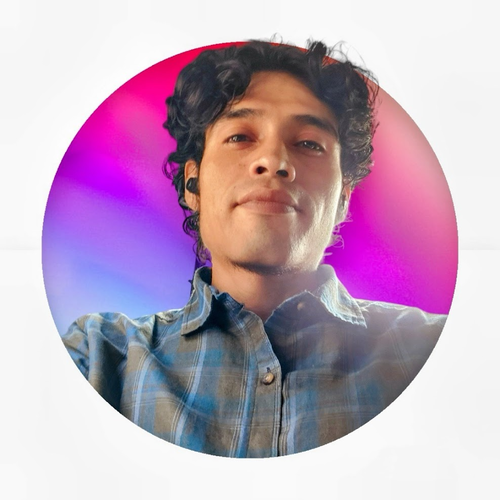
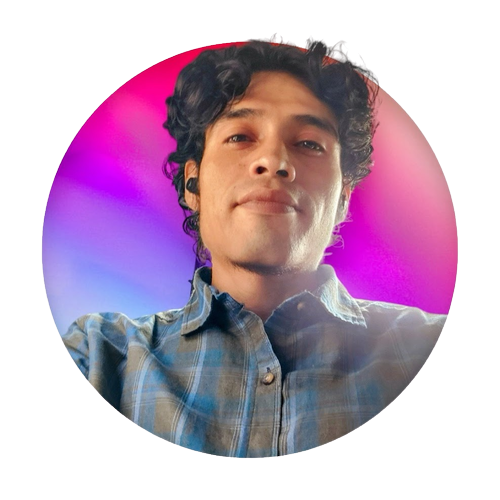
seccion formacion terminada.

diff --git a/index.html b/index.html
@@ -18,6 +18,22 @@
     <link rel="stylesheet" href="assets/css/perfil/perfil-info.css">
     <link rel="stylesheet" href="assets/css/perfil/redes.css">
     <link rel="stylesheet" href="assets/css/perfil/perfil-foto.css">
+    <link rel="stylesheet" href="sobre-mi.css">
+    <link rel="stylesheet" href="assets/css/sobre-mi/sobremi.css">
+    <link rel="stylesheet" href="assets/css/sobre-mi/sobremi-titulo.css">
+    <link rel="stylesheet" href="assets/css/sobre-mi/sobremi-info.css">
+    <link rel="stylesheet" href="skills.css">
+    <link rel="stylesheet" href="assets/css/skills/box-container.css">
+    <link rel="stylesheet" href="assets/css/skills/box.css">
+    <link rel="stylesheet" href="assets/css/skills/box-imagen.css">
+    <link rel="stylesheet" href="assets/css/skills/box-nombre.css">
+    <link rel="stylesheet" href="hobbies.css">
+    <link rel="stylesheet" href="formacion.css">
+    <link rel="stylesheet" href="assets/css/formacion/box-container.css">
+    <link rel="stylesheet" href="assets/css/formacion/box.css">
+    <link rel="stylesheet" href="assets/css/formacion/formacion-imagen.css">
+    <link rel="stylesheet" href="assets/css/formacion/formacion-nombre.css">
+    <link rel="stylesheet" href="assets/css/formacion/formacion-tiempo.css">
     <title>Mi Portafolio</title>
 </head>
 <body>
@@ -55,41 +71,39 @@
     </section>
     <!--Seccion sobre mi-->
     <section class="sobremi-container" id="sobre-mi">
-        <h2 class="sobremi__titulo">Sobre Mi</h2>
+        <div class="sobre-mi">
+            <h2 class="sobremi__titulo">Sobre Mi</h2>
             <p class="sobremi__info">Lorem ipsum dolor sit amet, consectetur adipiscing elit. Pellentesque velit velit, volutpat semper dignissim dictum, imperdiet ut lacus. Quisque gravida ex a mattis pretium. Suspendisse potenti. Ut semper sagittis ligula et lacinia. Aenean sit amet felis venenatis, egestas metus vitae, aliquet metus.</p>
                 <img class="sobremi__firma" src="assets/img/firma.png" alt="firma">
-        
+        </div>
     </section>
-
     <!--Seccion Skills-->
     <section class="skills-container" id="skills">
-        <h2 class="heading">Skills</h2>
+            <h2 class="heading">Skills</h2>
             <div class="box-container">
                 <div class="box">
                     <img src="assets/img/html5.png" alt="html" class="skill__imagen">
-                        <h3 class="skill__nombre">HTML5</h3>
+                    <h3 class="skill__nombre">HTML5</h3>
                 </div>
-            </div>
-            <div class="box-container">
                 <div class="box">
                     <img src="assets/img/css.png" alt="css" class="skill__imagen">
-                        <h3 class="skill__nombre">CSS</h3>
+                    <h3 class="skill__nombre">CSS</h3>
                 </div>
-            </div>
-            <div class="box-container">
                 <div class="box">
                     <img src="assets/img/js.png" alt="js" class="skill__imagen">
                         <h3 class="skill__nombre">JavaScript</h3>
                 </div>
-            </div>
-            <div class="box-container">
+                <div class="box">
+                    <img src="assets/img/git.png" alt="git" class="skill__imagen">
+                        <h3 class="skill__nombre">Git</h3>
+                </div>
                 <div class="box">
                     <img src="assets/img/github.png" alt="github" class="skill__imagen">
                         <h3 class="skill__nombre">Github</h3>
                 </div>
             </div>  
     </section>
-    <!--Seccion Hobbies-->
+    <!--Seccion Hobbies Tienen las misma caracteristicas y comparten la misma carpeta skill-->
     <section class="hobbies-container" id="hobbies">
         <h2 class="heading">Hobbies</h2>
             <div class="box-container">
@@ -97,50 +111,45 @@
                     <img src="assets/img/caminar.png" alt="caminar" class="hobbie__imagen">
                         <h3 class="hobbie__nombre">Caminar</h3>
                 </div>
-            </div>
-            <div class="box-container">
                 <div class="box">
                     <img src="assets/img/escuchar.png" alt="musica" class="hobbie__imagen">
                         <h3 class="hobbie__nombre">Escuchar Musica</h3>
                 </div>
-            </div>
-            <div class="box-container">
                 <div class="box">
                     <img src="assets/img/leer.png" alt="leer" class="hobbie__imagen">
                         <h3 class="hobbie__nombre">Leer</h3>
                 </div>
-            </div>
-            <div class="box-container">
                 <div class="box">
                     <img src="assets/img/vertv.png" alt="ver tv" class="hobbie__imagen">
                         <h3 class="hobbie__nombre">Ver Animes</h3>
                 </div>
             </div>  
     </section>
-
     <!--Seccion formacion-->
     <section class="formacion-container" id="formacion">
-        <h2>Formación Académica</h2>
-        <div class="box-container">
-            <img src="assets/img/cesca.png" alt="cesca">
-                <h3>Instuto Tecnologico Cesca</h3>
-                    <p>2014</p>
-        </div>
-        <div class="box-container">
-            <img src="assets/img/alura_logo.png" alt="cesca">
-                <h3>Alura Oracle</h3>
-                    <p>2023</p>
-        </div>
-        <div class="box-container">
-            <img src="assets/img/ucv.png" alt="cesca">
-                <h3>Universidad Cesar Vallejo</h3>
-                    <p>2018</p>
+        <h2 class="heading">Formación Académica</h2>
+        <div class="box-container__formacion">
+            <div class="box__formacion">
+                <img class="formacion__imagen" src="assets/img/cesca.png" alt="cesca">
+                <h3 class="formacion__nombre">Instuto Tecnologico Cesca</h3>
+                <p class="formacion__tiempo">2014</p>
+            </div>
+            <div class="box__formacion">
+                <img class="formacion__imagen" src="assets/img/alura_logo.png" alt="cesca">
+                <h3 class="formacion__nombre">Alura Oracle</h3>
+                <p class="formacion__tiempo">2023</p>
+            </div>
+            <div class="box__formacion">
+                <img class="formacion__imagen" src="assets/img/ucv.png" alt="cesca">
+                <h3 class="formacion__nombre">Universidad Cesar Vallejo</h3>
+                <p class="formacion__tiempo">2018</p>
+            </div>
         </div>
     </section>
 
     <!-- Seccion Experiencia Laboral-->
-    <section class="experiencia" id="xp">
-        <h2 class="experiencia__tituloxp">Experiencia Profesional</h2>
+    <section class="experiencia-container" id="xp">
+        <h2 class="heading">Experiencia Profesional</h2>
             <div class="experiencia__box">
                 <img src="assets/img/encriptador.png" alt="encriptador" class="experiencia__imagen">
                     <div class="experiencia__info">

diff --git a/skills.css b/skills.css
@@ -1,0 +1,21 @@
+.skills-container{
+    display: flex;
+    flex-direction: column;
+    box-sizing: border-box;
+    outline: none;
+    border: none;
+    text-decoration: none;
+    background-color: #f5f5f5;
+    padding-bottom: 10%;
+    padding-top: 5%;
+}
+
+.heading{
+    text-align: center;
+    padding-bottom: 15px;
+    font-family: 'Raleway', system-ui;
+    font-style: normal;
+    font-weight: 700;
+    font-size: 32px;
+    color: #464646;
+}

diff --git a/hobbies.css b/hobbies.css
@@ -1,0 +1,11 @@
+.hobbies-container{
+    display: flex;
+    flex-direction: column;
+    box-sizing: border-box;
+    outline: none;
+    border: none;
+    text-decoration: none;
+    background-color: #f5f5f5;
+    padding-bottom: 10%;
+    padding-top: 5%;
+}

diff --git a/assets/css/perfil/perfil-foto.css b/assets/css/perfil/perfil-foto.css
@@ -2,11 +2,13 @@
     width: 370px;
     height: 370px;
     box-sizing: border-box;
+
 }
 
 .perfil__foto img{
     box-sizing: border-box;
-    width: 368px;
-    height: 368px;
+    width: 360px;
+    height: 360px;
     border-radius: 200px;
+    
 }

diff --git a/assets/css/sobre-mi/sobremi-info.css b/assets/css/sobre-mi/sobremi-info.css
@@ -1,0 +1,10 @@
+.sobremi__info{
+    font-family: 'Raleway', system-ui;
+    font-style: normal;
+    font-weight: 400;
+    font-size: 16px;
+    color: #464646;
+    padding-top: 2%;
+    padding-bottom: 2%;
+    text-align: justify;
+}

diff --git a/formacion.css b/formacion.css
@@ -1,0 +1,9 @@
+.formacion-container{
+    box-sizing: border-box;
+    outline: none;
+    border: none;
+    text-decoration: none;
+    background-color: #EAF2FD;
+    padding: 5%;
+    padding-bottom: 100px;
+}

diff --git a/perfil.css b/perfil.css
@@ -3,6 +3,7 @@
     justify-content: space-evenly;
     box-sizing: content-box;
     height: 450px;
-    padding-left: 200px;
+    padding-left: 10%;
+    padding-right: 10%;
     background-color: #f5f5f5;
 }

diff --git a/assets/css/skills/box-container.css b/assets/css/skills/box-container.css
@@ -1,0 +1,8 @@
+.box-container{
+    display: grid;
+    grid-template-columns: repeat(auto-fit, minmax(140px, 1fr));
+    gap: 20px;
+    padding-top: 30px;
+    padding-left: 10%;
+    padding-right: 10%;
+}

diff --git a/assets/css/sobre-mi/sobremi.css b/assets/css/sobre-mi/sobremi.css
@@ -1,0 +1,9 @@
+.sobre-mi{
+    display: flex;
+    align-items: flex-start;
+    flex-direction: column;
+    padding-left: 10%;
+    padding-right: 10%;
+    padding-top: 50px;
+
+}

diff --git a/assets/css/formacion/box-container.css b/assets/css/formacion/box-container.css
@@ -1,0 +1,6 @@
+.box-container__formacion{
+    display: grid;
+    grid-template-columns: repeat(auto-fit, minmax(240px, 1fr));
+    grid-gap: 80px 15px;
+    padding-top: 70px;
+}

diff --git a/assets/css/formacion/formacion-nombre.css b/assets/css/formacion/formacion-nombre.css
@@ -1,0 +1,7 @@
+.formacion__nombre{
+    font-family: 'Raleway', system-ui;
+    font-style: normal;
+    font-weight: 700;
+    font-size: 22px;
+    color: #464646;
+}

diff --git a/assets/css/sobre-mi/sobremi-titulo.css b/assets/css/sobre-mi/sobremi-titulo.css
@@ -1,0 +1,7 @@
+.sobremi__titulo{
+    font-family: 'Raleway', system-ui;
+    font-style: normal;
+    font-weight: 700;
+    font-size: 32px;
+    color: #464646;
+}
